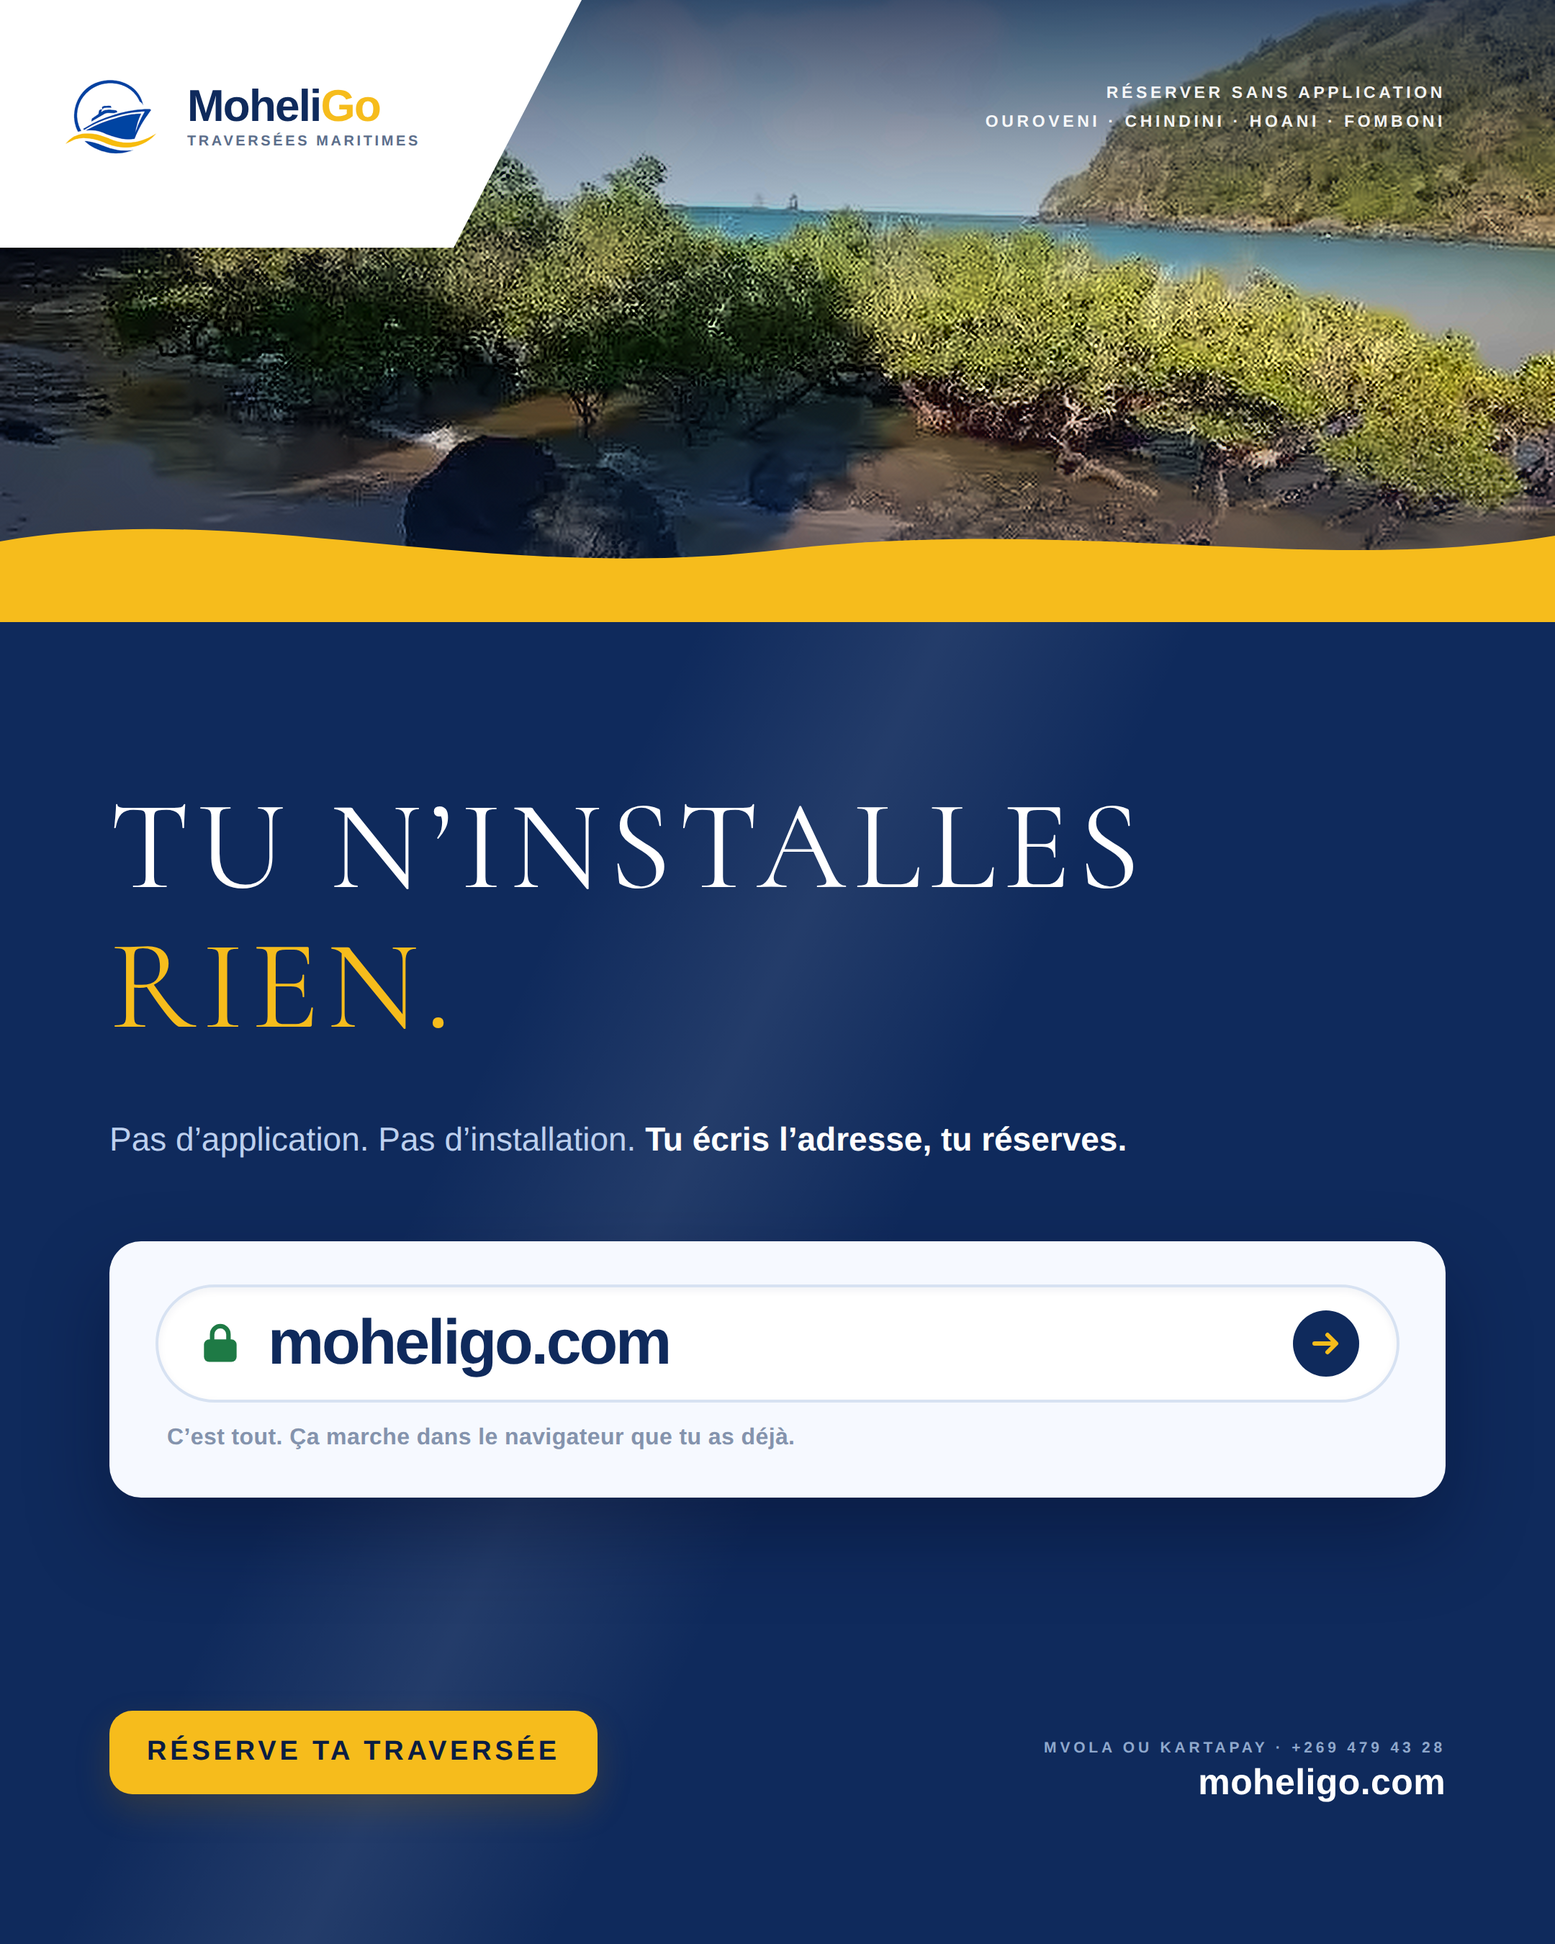
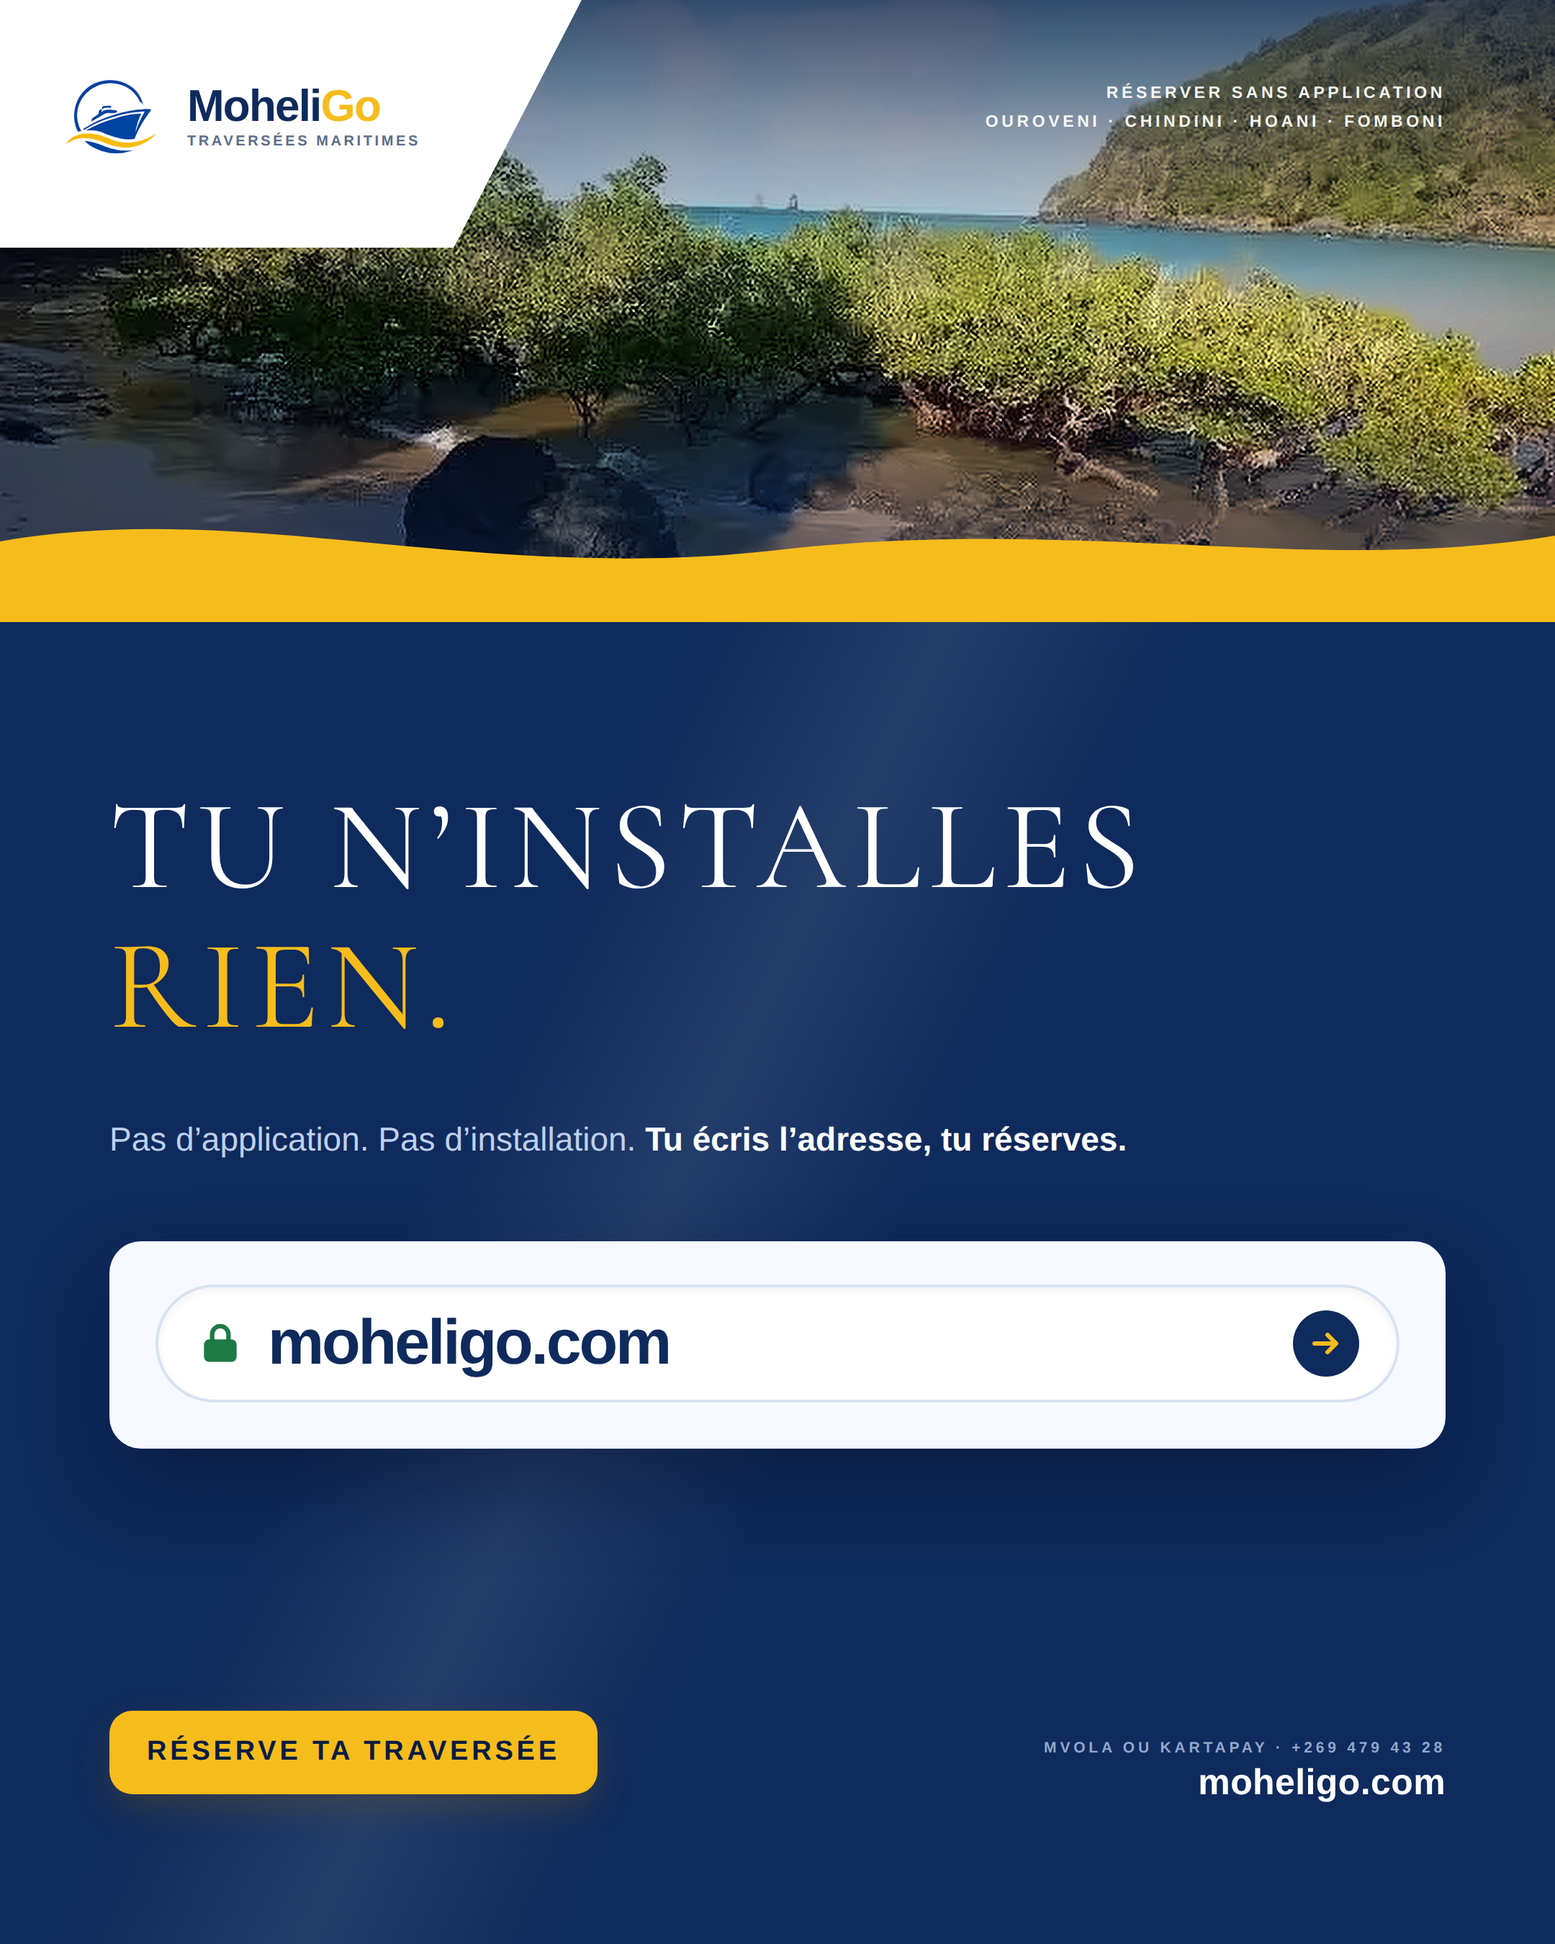
La semaine est complete, et LA FIERTE etait a zero
Relecture exterieure : « certains posts sont encore un peu charges en texte ;
on pourrait renforcer l'aspect fierte et modernite de Moheli ».

J'ai compte avant de repondre. La norme prevoit quatre sentiments depuis le
29/08 ; voici ce que la bibliotheque jouait reellement :
    LE SOULAGEMENT  2
    LA PROXIMITE    4
    LA FIERTE       0   <- jamais joue
    LA CONFIANCE    4

Nous avions un clavier de quatre touches et nous n'en jouions que trois. La
critique ne portait pas sur un defaut d'execution : elle portait sur une
corde qu'on n'avait jamais tendue.
📌 Une palette declaree ne sert a rien si personne ne compte ce qu'on en
utilise. Le sentiment etait note dans chaque en-tete depuis cinq jours — nul
ne les avait additionnes, alors que ca prend dix lignes de code.

flyer49 « ON A FAIT CA / CHEZ NOUS. » — premier visuel de FIERTE, et il
comble le dernier trou du calendrier : le dimanche. Sept jours sur sept.
· ce qu'il affirme est verifiable mot pour mot ;
· aucun superlatif, aucun « premier », aucun « leader » — la fierte n'a pas
  besoin de se comparer, sinon c'est de la revendication ;
· la modernite n'est pas dite, elle est montree par le geste demande. Une
  marque qui doit annoncer qu'elle est moderne ne l'est deja plus.

ET LE CONTROLE A REFUSE CE VISUEL, A TORT : son en-tete cite les quatre
sentiments (le tableau ci-dessus) et exigence.py les cherchait n'importe ou
dans le commentaire. Il n'en DECLARAIT qu'un, il en MENTIONNAIT quatre.
[…]

Changed region(s): [[0.062, 0.7156, 0.9306, 0.7778]]

diff --git a/moheligo/pub/flyers/flyer49-chez-nous-fb.html b/moheligo/pub/flyers/flyer49-chez-nous-fb.html
@@ -1,0 +1,110 @@
+<!-- DIMANCHE — « ON A FAIT ÇA CHEZ NOUS. » — 03/09/2026. Sans date.
+
+     SENTIMENT : LA FIERTÉ
+
+     🚩 IL COMBLE LE DERNIER TROU DU CALENDRIER, ET IL RÉPOND À UNE MESURE.
+     Relecture extérieure transmise par le patron : « on pourrait renforcer un
+     peu plus l'aspect fierté et modernité de Mohéli. » J'ai compté ce que nos
+     visuels déclarent réellement — la norme prévoit quatre sentiments :
+         LE SOULAGEMENT  ██···  2
+         LA PROXIMITÉ    ████·  4
+         LA FIERTÉ       ·····  0     ← jamais joué
+         LA CONFIANCE    ████·  4
+     ⛔ **NOUS AVIONS UN CLAVIER DE QUATRE TOUCHES ET NOUS N'EN JOUIONS QUE
+     TROIS.** La critique ne portait donc pas sur un défaut d'exécution : elle
+     portait sur une corde qu'on n'avait jamais tendue. C'est le premier visuel
+     de FIERTÉ de la bibliothèque.
+     📌 **UNE PALETTE DÉCLARÉE NE SERT À RIEN SI PERSONNE NE COMPTE CE QU'ON EN
+     UTILISE.** Le sentiment était noté dans chaque en-tête depuis le 29/08 —
+     mais nul ne les avait additionnés, alors que ça prend dix lignes.
+
+     ✅ CE QU'IL AFFIRME, ET IL EST VÉRIFIABLE MOT POUR MOT : MoheliGo est une
+     entreprise comorienne, les commandants et les ports sont comoriens, et la
+     traversée se réserve en ligne. Aucun superlatif, aucun « premier », aucun
+     « leader » — la fierté n'a pas besoin de se comparer, sinon ce n'est plus
+     de la fierté, c'est de la revendication.
+     ⚠ La MODERNITÉ n'est pas dite, elle est montrée par le geste qu'on demande :
+     réserver en ligne. Une marque qui doit annoncer qu'elle est moderne ne l'est
+     déjà plus.
+
+     Rendu : node render.js flyer49-chez-nous-fb.html flyer-chez-nous-facebook.png 1080 1350 2 -->
+<meta charset="utf-8">
+<style>
+@font-face { font-family:'Cormorant'; font-weight:400; src:url(fonts/Cormorant-400-latin.woff2) format('woff2'); }
+@font-face { font-family:'Archivo'; font-weight:900; src:url(fonts/Archivo-900-latin.woff2) format('woff2'); }
+@font-face { font-family:'Inter'; font-weight:500; src:url(fonts/Inter-500-latin.woff2) format('woff2'); }
+@font-face { font-family:'Inter'; font-weight:700; src:url(fonts/Inter-700-latin.woff2) format('woff2'); }
+* { margin:0; padding:0; box-sizing:border-box; }
+body { width:1080px; height:1350px; font-family:'Inter',sans-serif; -webkit-font-smoothing:antialiased; }
+
+.page { position:relative; width:1080px; height:1350px; overflow:hidden; background:#0F2A5C; }
+
+.photo { position:absolute; top:0; left:0; width:1080px; height:620px; z-index:1; overflow:hidden; }
+.photo img { width:100%; height:100%; object-fit:cover; object-position:50% 28%; display:block; }
+.voile { position:absolute; left:0; top:0; width:1080px; height:220px; z-index:2;
+  background:linear-gradient(180deg, rgba(10,29,66,.72) 0%, rgba(10,29,66,0) 100%); }
+.fondu { position:absolute; left:0; top:450px; width:1080px; height:170px; z-index:2;
+  background:linear-gradient(180deg, rgba(15,42,92,0) 0%, rgba(15,42,92,.46) 100%); }
+.couture { position:absolute; left:0; top:546px; width:1080px; height:86px; z-index:3; }
+
+.coin { position:absolute; top:0; left:0; width:404px; height:172px; background:#fff;
+  clip-path:polygon(0 0, 100% 0, 78% 100%, 0 100%); z-index:6;
+  display:flex; align-items:center; gap:16px; padding:18px 0 28px 40px;
+  box-shadow:0 20px 48px rgba(4,12,40,.4); }
+.coin img { width:74px; height:74px; border-radius:16px; display:block; object-fit:contain; }
+.coin b { font-family:'Archivo',sans-serif; font-weight:900; font-size:31px; color:#0F2A5C;
+  letter-spacing:-.9px; line-height:1; display:block; }
+.coin b i { color:#F6BC1C; font-style:normal; }
+.coin small { display:block; font-size:10.3px; font-weight:700; letter-spacing:3.4px;
+  color:#5C6E8B; margin-top:5px; }
+.ligne { position:absolute; top:66px; right:76px; z-index:4; text-align:right;
+  font-size:12px; font-weight:700; letter-spacing:2.6px; line-height:1.7;
+  color:rgba(255,255,255,.94); }
+
+.sur { position:absolute; left:76px; top:702px; z-index:5; font-size:13px;
+  font-weight:700; letter-spacing:3.4px; color:#F6BC1C; }
+.acc { position:absolute; left:76px; top:740px; width:928px; z-index:5;
+  font-family:'Cormorant',serif; font-weight:400; font-size:88px; line-height:1.1;
+  letter-spacing:5.0px; color:#fff; }
+.acc span { display:block; color:#F6BC1C; }
+
+.dit { position:absolute; left:76px; top:1000px; width:660px; z-index:5;
+  font-size:22px; line-height:1.5; color:#CFDDF3; }
+.dit b { color:#fff; font-weight:700; }
+
+.cta { position:absolute; left:76px; top:1130px; z-index:5;
+  background:#F6BC1C; border-radius:14px; padding:19px 30px; display:inline-block;
+  font-family:'Inter',sans-serif; font-weight:700; font-size:19px;
+  color:#0A1D42; letter-spacing:2.4px; white-space:nowrap;
+  box-shadow:0 10px 24px rgba(150,100,4,.24); }
+.web { position:absolute; right:76px; top:1148px; z-index:5; text-align:right;
+  font-family:'Inter',sans-serif; font-weight:700; font-size:25px;
+  color:#fff; letter-spacing:.2px; }
+.web small { display:block; font-family:'Inter',sans-serif; font-size:10.5px;
+  font-weight:700; letter-spacing:2.4px; color:#8FA8CC; margin-bottom:4px; }
+</style>
+
+<div class="page">
+  <div class="photo"><img src="photo-ile-moheli.png" alt=""></div>
+  <div class="voile"></div>
+  <div class="fondu"></div>
+  <svg class="couture" viewBox="0 0 1080 86" preserveAspectRatio="none">
+    <path d="M0,30 C170,0 330,60 540,36 C750,12 910,54 1080,26 L1080,86 L0,86 Z"
+          fill="#F6BC1C"/>
+  </svg>
+
+  <div class="coin">
+    <img src="logo-emblem.png" alt="">
+    <div><b>Moheli<i>Go</i></b><small>TRAVERSÉES MARITIMES</small></div>
+  </div>
+  <div class="ligne">UNE ENTREPRISE COMORIENNE<br>OUROVENI · CHINDINI · HOANI · FOMBONI</div>
+
+  <div class="sur">MOHÉLI · GRANDE COMORE</div>
+  <div class="acc">ON A FAIT ÇA<span>CHEZ NOUS.</span></div>
+
+  <div class="dit">Des commandants d’ici, des ports d’ici.
+    <b>Et une traversée qui se réserve en ligne.</b></div>
+
+  <div class="cta">RÉSERVE TA TRAVERSÉE</div>
+  <div class="web"><small>TRAVERSÉES MARITIMES DES COMORES</small>moheligo.com</div>
+</div>

diff --git a/moheligo/pub/flyers/flyer28-rien-installer-fb.html b/moheligo/pub/flyers/flyer28-rien-installer-fb.html
@@ -99,8 +99,6 @@ body { width:1080px; height:1350px; font-family:'Inter',sans-serif; -webkit-font
 .barre .fleche { flex:0 0 46px; height:46px; border-radius:50%; background:#0F2A5C;
   display:flex; align-items:center; justify-content:center; }
 .barre .fleche svg { width:24px; height:24px; display:block; }
-.legende { margin-top:16px; padding-left:8px; font-size:16px; font-weight:700;
-  letter-spacing:.2px; color:#8493AD; }
 .trois { display:flex; margin-top:28px; padding-top:26px; border-top:1px solid #DDE6F4; }
 .trois div { flex:1; padding-right:20px; }
 .trois div + div { border-left:1px solid #DDE6F4; padding-left:20px; }
@@ -172,7 +170,6 @@ body { width:1080px; height:1350px; font-family:'Inter',sans-serif; -webkit-font
         <path d="M4 12h14M13 6l6 6-6 6" stroke="#F6BC1C" stroke-width="3"
               stroke-linecap="round" stroke-linejoin="round"/></svg></div>
     </div>
-    <div class="legende">C’est tout. Ça marche dans le navigateur que tu as déjà.</div>
     </div>
   </div>
 

diff --git a/moheligo/pub/flyers/exigence.py b/moheligo/pub/flyers/exigence.py
@@ -272,7 +272,19 @@ def controler(chemin):
                         f'défend pas.')
 
     # ── § 3 LE SENTIMENT DÉCLARÉ ─────────────────────────────────────────────
-    dec = [s for s in SENTIMENTS if s in ent]
+    # 🚩 03/09/2026 — ON LIT LA LIGNE DE DÉCLARATION, PAS TOUT L'EN-TÊTE.
+    # Le contrôle cherchait les quatre noms n'importe où dans le commentaire de
+    # tête. Un visuel dont l'en-tête EXPLIQUE la palette — en citant les quatre
+    # sentiments et le nombre de fois qu'on les joue — se faisait donc refuser
+    # pour « 4 sentiments déclarés ». Il n'en déclarait qu'un : il en MENTIONNAIT
+    # quatre.
+    # 📌 **DÉCLARER ET MENTIONNER NE SONT PAS LA MÊME CHOSE.** Un contrôle qui
+    # confond les deux punit précisément les fichiers qui documentent le mieux ce
+    # qu'ils font — donc il décourage exactement le comportement qu'on veut.
+    # La norme dit « déclaré dans l'en-tête » : la déclaration est la ligne
+    # `SENTIMENT : X`, et c'est elle seule qu'on lit.
+    ligne = re.search(r'SENTIMENT\s*:\s*(.+)', ent)
+    dec = [s for s in SENTIMENTS if s in ligne.group(1)] if ligne else []
     if not dec:
         refuse('3', 'aucun SENTIMENT déclaré dans l’en-tête '
                     f'(un parmi : {", ".join(SENTIMENTS)})')

diff --git a/moheligo/pub/flyers/page.py b/moheligo/pub/flyers/page.py
@@ -70,6 +70,9 @@ FLYERS = [
     dict(png='flyer-revenir-facebook.png', titre='⭐ SAMEDI — ON Y REVIENT',
          note='Sans date · publie le samedi<br>la destination<br>notre meilleure ligne',
          texte=_texte('texte-revenir.txt')),
+    dict(png='flyer-chez-nous-facebook.png', titre='⭐ DIMANCHE — ON A FAIT ÇA CHEZ NOUS',
+         note='Sans date · publie le dimanche<br>le premier visuel de FIERTÉ<br>de la bibliothèque',
+         texte=_texte('texte-chez-nous.txt')),
     dict(png='flyer-grostemps-facebook.png', titre='⛈ LES JOURS DE GROSSE MER',
          note="Sans date<br>publié tout seul quand la houle<br>dépasse 2,50 m au matin<br>{etat} et {houle} sont remplacés<br>par les vrais chiffres du jour<br>ZÉRO appel commercial",
          texte=_texte('texte-grostemps.txt')),

diff --git a/moheligo/pub/flyers/calendrier.py b/moheligo/pub/flyers/calendrier.py
@@ -11,7 +11,7 @@ directeur marketing et commercial, tu vas tout gérer les pubs. »
     jeudi            la proximité de l'île
     vendredi         partir et revenir
     samedi           la destination
-    dimanche         — (à écrire)
+    dimanche         la fierté
 
 🚩 RÉÉCRIT LE 02/09/2026, APRÈS LE GRAND NETTOYAGE.
 Le patron : « supprime tous les flyers qui ne sont pas aux normes, les anciens
@@ -68,7 +68,8 @@ SEMAINE = {
         'partir et revenir'),
     5: ('flyer-revenir-facebook.png', 'texte-revenir.txt',
         'la destination'),
-    6: None,                                    # dimanche — à écrire
+    6: ('flyer-chez-nous-facebook.png', 'texte-chez-nous.txt',
+        'la fierté'),
 }
 
 # --- LE MATIN : plus rien, et il faut le dire ------------------------------

diff --git a/moheligo/dossier/MEMOIRE.md b/moheligo/dossier/MEMOIRE.md
@@ -370,6 +370,53 @@ recharger ce sujet ici, ce n'est pas du marketing.
 
 ## 6. Journal des sessions
 
+- **03/09/2026 (🏆 LA SEMAINE EST COMPLÈTE — et LA FIERTÉ était à zéro)** —
+  relecture extérieure transmise par le patron : « certains posts sont encore un
+  peu chargés en texte ; on pourrait renforcer l'aspect **fierté** et
+  **modernité** de Mohéli. »
+
+  ⛔ **J'AI COMPTÉ AVANT DE RÉPONDRE, ET LE RÉSULTAT ÉTAIT SANS APPEL.** La norme
+  prévoit quatre sentiments depuis le 29/08 ; voici ce que la bibliothèque jouait
+  réellement :
+      LE SOULAGEMENT  ██···  2
+      LA PROXIMITÉ    ████·  4
+      **LA FIERTÉ     ·····  0**
+      LA CONFIANCE    ████·  4
+  **Nous avions un clavier de quatre touches et nous n'en jouions que trois.**
+  La critique ne portait donc pas sur un défaut d'exécution : elle portait sur
+  une corde qu'on n'avait jamais tendue.
+  📌 **UNE PALETTE DÉCLARÉE NE SERT À RIEN SI PERSONNE NE COMPTE CE QU'ON EN
+  UTILISE.** Le sentiment était noté dans chaque en-tête depuis cinq jours — nul
+  ne les avait additionnés, alors que ça prend dix lignes de code.
+
+  ✅ **`flyer49` — « ON A FAIT ÇA / CHEZ NOUS. »** Premier visuel de FIERTÉ, et
+  il comble le dernier trou du calendrier : **le dimanche**. La semaine est
+  complète, sept jours sur sept, sans exception.
+  · ce qu'il affirme est vérifiable mot pour mot : entreprise comorienne,
+    commandants et ports comoriens, réservation en ligne ;
+  · **aucun superlatif, aucun « premier », aucun « leader »** — la fierté n'a pas
+    besoin de se comparer, sinon ce n'est plus de la fierté mais de la
+    revendication ;
+  · **la modernité n'est pas dite, elle est montrée** par le geste demandé.
+    📌 Une marque qui doit annoncer qu'elle est moderne ne l'est déjà plus.
+
+  🐛 **ET LE CONTRÔLE A REFUSÉ CE VISUEL — À TORT.** Son en-tête cite les quatre
+  sentiments (le tableau ci-dessus), et `exigence.py` les cherchait n'importe où
+  dans le commentaire : « 4 sentiments déclarés ». Il n'en DÉCLARAIT qu'un, il en
+  MENTIONNAIT quatre.
+  📌 **DÉCLARER ET MENTIONNER NE SONT PAS LA MÊME CHOSE.** Un contrôle qui
+  confond les deux punit précisément les fichiers qui documentent le mieux ce
+  qu'ils font — il décourage donc le comportement qu'on veut. Corrigé : on lit la
+  ligne `SENTIMENT :`, et elle seule.
+
+  📐 **La densité** : le lundi, dernier visuel au-dessus de la barre, perd la
+  légende de sa carte — elle redisait le corps de texte juste au-dessus.
+  **28,6 % → 26,7 %.** Moyenne de la bibliothèque : **21,4 %**.
+
+  ✅ **État : 11 conformes sur 11, famille 5,0/5 sur 10 visuels, zéro collision,
+  sept jours sur sept.** 🔴 Reste : la démonstration du matin à refaire, et le
+  bulletin du soir qui assume ses 57 % (c'est un bulletin de données).
+
 - **02/09/2026 (💎 LE PASSAGE AU PREMIUM — typographie, air, et deux échecs de
   mes propres contrôles)** — relecture extérieure transmise par le patron : « le
   style reste très digital / Instagram, ça n'a pas le raffinement d'Air France
